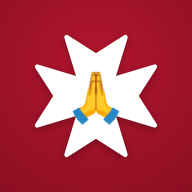
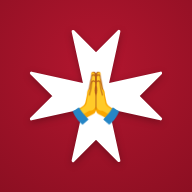
Accueil plus rouge, fenêtre Lourdes épurée, croix de Malte plus fine, swipe gauche pour revoir les intentions
Claude-Session: https://claude.ai/code/session_01PLPwRrE3P3uCtTfUiqd7Xw

diff --git a/index.html b/index.html
@@ -254,6 +254,10 @@ nav.tabs button[aria-selected="true"]{background:transparent!important;color:#ff
 .empty img{height:4rem;width:auto}
 .empty h3{font-size:1.4rem}
 .empty p{margin:0;color:var(--muted)}
+.empty{touch-action:pan-y}
+.empty.anim{transition:transform .3s ease,opacity .3s}
+.empty.anim.ressort{transition:transform .5s cubic-bezier(.34,1.56,.64,1)}
+.empty p.revoirhint{font-size:.9rem}
 
 /* Écrire : une page blanche, le micro en bas */
 .sr{position:absolute;width:1px;height:1px;overflow:hidden;clip:rect(0 0 0 0);white-space:nowrap}
@@ -329,6 +333,7 @@ nav.tabs .e{font-size:1.4rem}
 .grab{width:2.8rem;height:.3rem;border-radius:99px;background:var(--line);margin:.2rem auto}
 .sheet .logo{height:4.2rem;width:auto;align-self:center}
 .sheet p{margin:0}
+.big.petit{min-height:2.8rem;font-size:1rem;width:auto;align-self:center;padding:.4rem 1.8rem}
 .sheet a{color:var(--red);font-weight:700}
 .tabsrow{display:flex;gap:.5rem;flex-wrap:wrap}
 .tabsrow button{border:1.5px solid var(--line);background:var(--bg);border-radius:.4rem;padding:.55rem 1rem;font-weight:700;min-height:2.8rem}
@@ -355,7 +360,7 @@ nav.tabs .e{font-size:1.4rem}
 #home{position:absolute;inset:0;z-index:40;display:flex;flex-direction:column;background:#fff}
 .half{flex:1;border:0;display:flex;flex-direction:column;align-items:center;justify-content:center;gap:.35rem;text-align:center;padding:1.4rem;color:#fff;position:relative;transition:filter .15s}
 .half:active{filter:brightness(.9)}
-.half.prier{background:#9d1328}
+.half.prier{background:#9d1328;flex:1.3}
 .half.ecrire{background:#fff;color:var(--red)}
 @keyframes fromTop{from{transform:translateY(-100%)}}
 @keyframes fromBottom{from{transform:translateY(100%)}}
@@ -363,7 +368,7 @@ nav.tabs .e{font-size:1.4rem}
 .half b{font-family:var(--f-title);font-weight:400;font-size:2.5rem;line-height:1.1}
 .half small{font-size:1.05rem;opacity:.92;max-width:15rem;line-height:1.35}
 .half.prier{padding-bottom:3.2rem}.half.ecrire{padding-top:3.2rem}
-.seal{position:absolute;left:50%;top:50%;width:5.6rem;height:5.6rem;margin:-2.8rem 0 0 -2.8rem;border-radius:50%;background:#fff;display:flex;align-items:center;justify-content:center;box-shadow:0 0 0 .3rem #fff,0 6px 24px rgba(0,0,0,.3);pointer-events:none;z-index:2}
+.seal{position:absolute;left:50%;top:56.5%;width:5.6rem;height:5.6rem;margin:-2.8rem 0 0 -2.8rem;border-radius:50%;background:#fff;display:flex;align-items:center;justify-content:center;box-shadow:0 0 0 .3rem #fff,0 6px 24px rgba(0,0,0,.3);pointer-events:none;z-index:2}
 .seal img{height:3.5rem;width:auto}
 @keyframes seal{from{opacity:0;transform:scale(.4)}}
 #home .homesize{position:absolute;top:max(.8rem,env(safe-area-inset-top,0px));right:max(.9rem,env(safe-area-inset-right,0px));z-index:3;background:rgba(255,255,255,.16);border-color:rgba(255,255,255,.55);color:#fff}
@@ -379,7 +384,7 @@ nav.tabs .e{font-size:1.4rem}
   <symbol id="i-mic" viewBox="0 0 24 24"><rect x="9" y="3" width="6" height="11" rx="3"/><path d="M5.5 11a6.5 6.5 0 0 0 13 0M12 17.5V21M9 21h6"/></symbol>
   <symbol id="i-book" viewBox="0 0 24 24"><path d="M3.5 5.5h6A2.5 2.5 0 0 1 12 8v11.5a2.5 2.5 0 0 0-2.5-2.5h-6zM20.5 5.5h-6A2.5 2.5 0 0 0 12 8v11.5a2.5 2.5 0 0 1 2.5-2.5h6z"/></symbol>
   <symbol id="i-x" viewBox="0 0 24 24"><path d="M6.5 6.5l11 11M17.5 6.5l-11 11"/></symbol>
-  <symbol id="i-malte" viewBox="0 0 24 24"><path d="M7 2L12 5.2L17 2L14.8 9.2L22 7L18.8 12L22 17L14.8 14.8L17 22L12 18.8L7 22L9.2 14.8L2 17L5.2 12L2 7L9.2 9.2Z" fill="currentColor" stroke="currentColor" stroke-width=".8" stroke-linejoin="round"/></symbol>
+  <symbol id="i-malte" viewBox="0 0 24 24"><path d="M8.10 1.00L12.00 4.90L15.90 1.00L13.90 10.10L23.00 8.10L19.10 12.00L23.00 15.90L13.90 13.90L15.90 23.00L12.00 19.10L8.10 23.00L10.10 13.90L1.00 15.90L4.90 12.00L1.00 8.10L10.10 10.10Z" fill="currentColor" stroke="currentColor" stroke-width=".5" stroke-linejoin="round"/></symbol>
   <symbol id="i-chapelet" viewBox="0 0 24 24"><circle cx="3.20" cy="3.00" r="1.2" fill="currentColor" stroke="none"/><circle cx="5.40" cy="6.76" r="1.2" fill="currentColor" stroke="none"/><circle cx="7.60" cy="9.45" r="1.2" fill="currentColor" stroke="none"/><circle cx="9.80" cy="11.06" r="1.2" fill="currentColor" stroke="none"/><circle cx="14.20" cy="11.06" r="1.2" fill="currentColor" stroke="none"/><circle cx="16.40" cy="9.45" r="1.2" fill="currentColor" stroke="none"/><circle cx="18.60" cy="6.76" r="1.2" fill="currentColor" stroke="none"/><circle cx="20.80" cy="3.00" r="1.2" fill="currentColor" stroke="none"/><circle cx="12" cy="11.6" r="1.5" fill="currentColor" stroke="none"/><circle cx="12" cy="14.7" r="1.05" fill="currentColor" stroke="none"/><path d="M12 16.2v6.6M9.4 18.6h5.2" stroke-width="2"/></symbol>
   <symbol id="i-stop" viewBox="0 0 24 24"><rect x="7" y="7" width="10" height="10" rx="1.5" fill="currentColor"/></symbol>
   <symbol id="grotte" viewBox="0 0 100 100"><path d="M12 90 V52 C12 26 30 10 50 10 C70 10 88 26 88 52 V90" fill="none" stroke="currentColor" stroke-width="7" stroke-linecap="round"/><path d="M50 30 l4 10 h10 l-8 6 3 10 -9 -6 -9 6 3 -10 -8 -6 h10 z" fill="currentColor"/><path d="M34 90 V72 a16 16 0 0 1 32 0 V90" fill="none" stroke="currentColor" stroke-width="5"/></symbol>
@@ -581,7 +586,7 @@ nav.tabs .e{font-size:1.4rem}
   // ---------- Fenêtres du bas ----------
   let sheetFocus = null;
   function ouvrir(titre, contenu, sansFermer) {
-    $("sheetTitle").textContent = titre; const b = $("sheetBody"); b.innerHTML = ""; b.append(...[].concat(contenu));
+    $("sheetTitle").textContent = titre; $("sheetTitle").hidden = !titre; const b = $("sheetBody"); b.innerHTML = ""; b.append(...[].concat(contenu));
     sheetFocus = document.activeElement; $("sheet").hidden = false; $("sheet").querySelector(".sheet").scrollTop = 0; $("sheetClose").hidden = !!sansFermer; (sansFermer ? $("sheetBody").querySelector("button") : $("sheetClose")).focus();
   }
   function fermer() { $("sheet").hidden = true; if (sheetFocus && sheetFocus.focus) sheetFocus.focus(); }
@@ -665,7 +670,7 @@ nav.tabs .e{font-size:1.4rem}
   });
 
   // ---------- Prier : pile de cartes ----------
-  const file = () => visibles().filter((i) => !i.lourdes && !S.deja.has(i.id) && !S.passees.has(i.id)).sort((a, b) => b.creeLe - a.creeLe);
+  const file = () => visibles().filter((i) => !i.lourdes && (S.revoir || !S.deja.has(i.id)) && !S.passees.has(i.id)).sort((a, b) => b.creeLe - a.creeLe);
   let dragging = false, signature = "";
   function carte(i, niveau) {
     const c = el("article", "card" + (niveau ? " l" + niveau : "")); c.dataset.id = i.id;
@@ -692,7 +697,7 @@ nav.tabs .e{font-size:1.4rem}
     const prog = $("progress"); prog.innerHTML = "";
     if (!S.loaded) { deck.append(el("div", "skel")); return; }
     if (top3.length === 0) {
-      const vide = el("div", "empty"); const total = visibles().length;
+      const vide = el("div", "empty"); const total = visibles().filter((i) => !i.lourdes).length;
       const logo = el("img"); logo.src = LOGO; logo.alt = "";
       const t = S.erreur && !total ? "Impossible de charger les intentions" : total === 0 ? "Aucune intention pour l'instant" : "Merci pour vos prières";
       const p = S.erreur && !total ? "Vérifiez votre connexion internet puis réessayez." : total === 0 ? "Écrivez la première : d'autres prieront avec vous." : "Vous avez prié pour toutes les intentions. Revenez plus tard.";
@@ -700,7 +705,7 @@ nav.tabs .e{font-size:1.4rem}
       const b = el("button", "big primary"); b.type = "button";
       if (S.erreur && !total) { b.textContent = "Réessayer"; b.onclick = () => location.reload(); } else { b.textContent = "Confier une intention"; b.onclick = () => show("ecrire"); }
       vide.append(b);
-      if (S.passees.size) { const r = el("button", "linkbtn"); r.type = "button"; r.textContent = "Revoir les intentions passées"; r.onclick = () => { S.passees.clear(); renderDeck(); }; vide.append(r); }
+      if (total) { vide.append(el("p", "revoirhint", "← Glissez vers la gauche pour revoir les intentions")); bindRevoir(vide); }
       deck.append(vide); return;
     }
     top3.slice().reverse().forEach((i, k, arr) => deck.append(carte(i, arr.length - 1 - k)));
@@ -709,6 +714,14 @@ nav.tabs .e{font-size:1.4rem}
     if (avant && deck.lastElementChild.dataset.id === avant) deck.lastElementChild.classList.add("promote");
     bindDrag(deck.lastElementChild);
   }
+  function revoir() { S.revoir = true; S.passees.clear(); signature = ""; renderDeck(); }
+  function bindRevoir(box) {
+    let x0 = null, dx = 0;
+    box.addEventListener("pointerdown", (e) => { if (e.target.closest("button")) return; x0 = e.clientX; dx = 0; box.setPointerCapture(e.pointerId); box.classList.remove("anim"); });
+    box.addEventListener("pointermove", (e) => { if (x0 === null) return; dx = e.clientX - x0; box.style.transform = "translateX(" + dx + "px) rotate(" + dx / 28 + "deg)"; });
+    const fin = () => { if (x0 === null) return; x0 = null; if (Math.abs(dx) > 80) { box.classList.add("anim"); box.style.transform = "translateX(" + (dx < 0 ? -140 : 140) + "%) rotate(" + (dx < 0 ? -14 : 14) + "deg)"; setTimeout(revoir, 260); } else { box.classList.add("anim", "ressort"); box.style.transform = ""; } };
+    box.addEventListener("pointerup", fin); box.addEventListener("pointercancel", fin);
+  }
   function renderGrotte() { if (!$("bandeau")) return;
     const n = visibles().filter((i) => i.lourdes).length; $("bandeau").hidden = n === 0;
     if (n) $("grotteTxt").innerHTML = "<b>" + n + (n > 1 ? " intentions" : " intention") + "</b> pour la Grotte";
@@ -716,7 +729,7 @@ nav.tabs .e{font-size:1.4rem}
   function bindDrag(card) {
     let x0 = null, dx = 0, id = null, t0 = 0, vx = 0, tPrev = 0, xPrev = 0;
     const oui = card.querySelector(".stamp"); const pill = card.querySelector(".count"), nn = pill && pill.querySelector(".n"), base = nn ? Number(nn.textContent) || 0 : 0;
-    const preview = (p) => { if (!pill) return; pill.style.transform = p > 0 ? "scale(" + (1 + p * .4) + ")" : ""; const h = p > .55; pill.classList.toggle("hot", h); nn.textContent = h ? base + 1 : base; }; const suivante = $("deck").children[$("deck").children.length - 2];
+    const dejaPrie = S.deja.has(card.dataset.id); const preview = (p) => { if (!pill) return; pill.style.transform = p > 0 ? "scale(" + (1 + p * .4) + ")" : ""; const h = p > .55; pill.classList.toggle("hot", h); nn.textContent = h && !dejaPrie ? base + 1 : base; }; const suivante = $("deck").children[$("deck").children.length - 2];
     card.addEventListener("pointerdown", (e) => { if (e.target.closest("button")) return; x0 = e.clientX; dx = 0; id = e.pointerId; dragging = true; t0 = tPrev = e.timeStamp; xPrev = e.clientX; card.setPointerCapture(id); card.classList.remove("anim", "ressort"); });
     card.addEventListener("pointermove", (e) => {
       if (x0 === null || e.pointerId !== id) return; dx = e.clientX - x0;
@@ -740,12 +753,12 @@ nav.tabs .e{font-size:1.4rem}
   async function prier(id, card, dir) {
     card = card || $("deck").lastElementChild; if (!card || !card.classList.contains("card") || card.dataset.busy) return; card.dataset.busy = 1; dragging = true;
     const i = par(id); if (!S.db) { toast("Connexion impossible pour le moment"); delete card.dataset.busy; return; }
-    S.deja.add(id); ecrire("prie", [...S.deja]); if (i) i.prieres = (i.prieres || 0) + 1;
+    const nouvelle = !S.deja.has(id); S.passees.add(id); S.deja.add(id); ecrire("prie", [...S.deja]); if (i && nouvelle) i.prieres = (i.prieres || 0) + 1;
     const pill = card.querySelector(".count"); card.classList.add("anim", "ressort"); card.style.transform = ""; card.querySelector(".stamp").style.opacity = 1;
-    if (pill) { pill.style.transform = ""; pill.classList.remove("hot"); pill.querySelector(".n").textContent = i ? i.prieres : ""; pill.append(el("span", "plus", "+1")); void pill.offsetWidth; pill.classList.add("fire"); }
+    if (pill) { pill.style.transform = ""; pill.classList.remove("hot"); pill.querySelector(".n").textContent = i ? i.prieres : ""; if (nouvelle) pill.append(el("span", "plus", "+1")); void pill.offsetWidth; pill.classList.add("fire"); }
     vibre(30); $("halo").classList.remove("on"); void $("halo").offsetWidth; $("halo").classList.add("on");
     setTimeout(() => { envoler(card, dir || 1); setTimeout(() => { dragging = false; signature = ""; renderDeck(); }, 320); }, 1000);
-    try { await FB().incr(id, "prieres"); } catch (e) { toast("La prière n'a pas pu être comptée"); }
+    try { if (nouvelle) await FB().incr(id, "prieres"); } catch (e) { toast("La prière n'a pas pu être comptée"); }
   }
   async function signaler(id) {
     if (!S.db) return; S.signales.add(id); ecrire("signales", [...S.signales]);
@@ -764,8 +777,8 @@ nav.tabs .e{font-size:1.4rem}
   { const b = lire("brouillon", ""); if (b) { texte.value = b; majChars(); } }
   $("lourdesChk").onchange = () => {
     if (!$("lourdesChk").checked) return;
-    const b = el("button", "big primary"); b.type = "button"; b.textContent = "J'ai compris"; b.onclick = fermer;
-    ouvrir("Dépôt à Lourdes", [el("p", "priere", "Cette intention sera envoyée et déposée à la Grotte de Lourdes par un chapelain de l'Ordre de Malte."), el("p", "", "Elle n'apparaîtra donc pas dans la liste des intentions proposées à la prière sur l'application."), b], true);
+    const b = el("button", "big primary petit"); b.type = "button"; b.textContent = "J'ai compris"; b.onclick = fermer;
+    ouvrir("", [el("p", "", "Cette intention sera confiée à un chapelain de l'Ordre de Malte qui la déposera à la Grotte de Lourdes."), el("p", "", "Elle n'apparaîtra donc pas dans la liste des intentions proposées à la prière sur l'application."), b], true);
   };
   $("anonChk").onchange = () => { const a = $("anonChk").checked; $("prenom").hidden = a; if (!a) $("prenom").focus(); };
 

diff --git a/sw.js b/sw.js
@@ -1,5 +1,5 @@
 // Mode hors ligne minimal : la page et les icônes sont gardées en mémoire ; les intentions viennent toujours du réseau.
-const CACHE = "intentions-v15";
+const CACHE = "intentions-v16";
 const FICHIERS = ["./", "index.html", "manifest.webmanifest", "icon-192.png", "icon-512.png"];
 self.addEventListener("install", (e) => { e.waitUntil(caches.open(CACHE).then((c) => c.addAll(FICHIERS)).then(() => self.skipWaiting())); });
 self.addEventListener("activate", (e) => { e.waitUntil(caches.keys().then((ks) => Promise.all(ks.filter((k) => k !== CACHE).map((k) => caches.delete(k)))).then(() => self.clients.claim())); });
